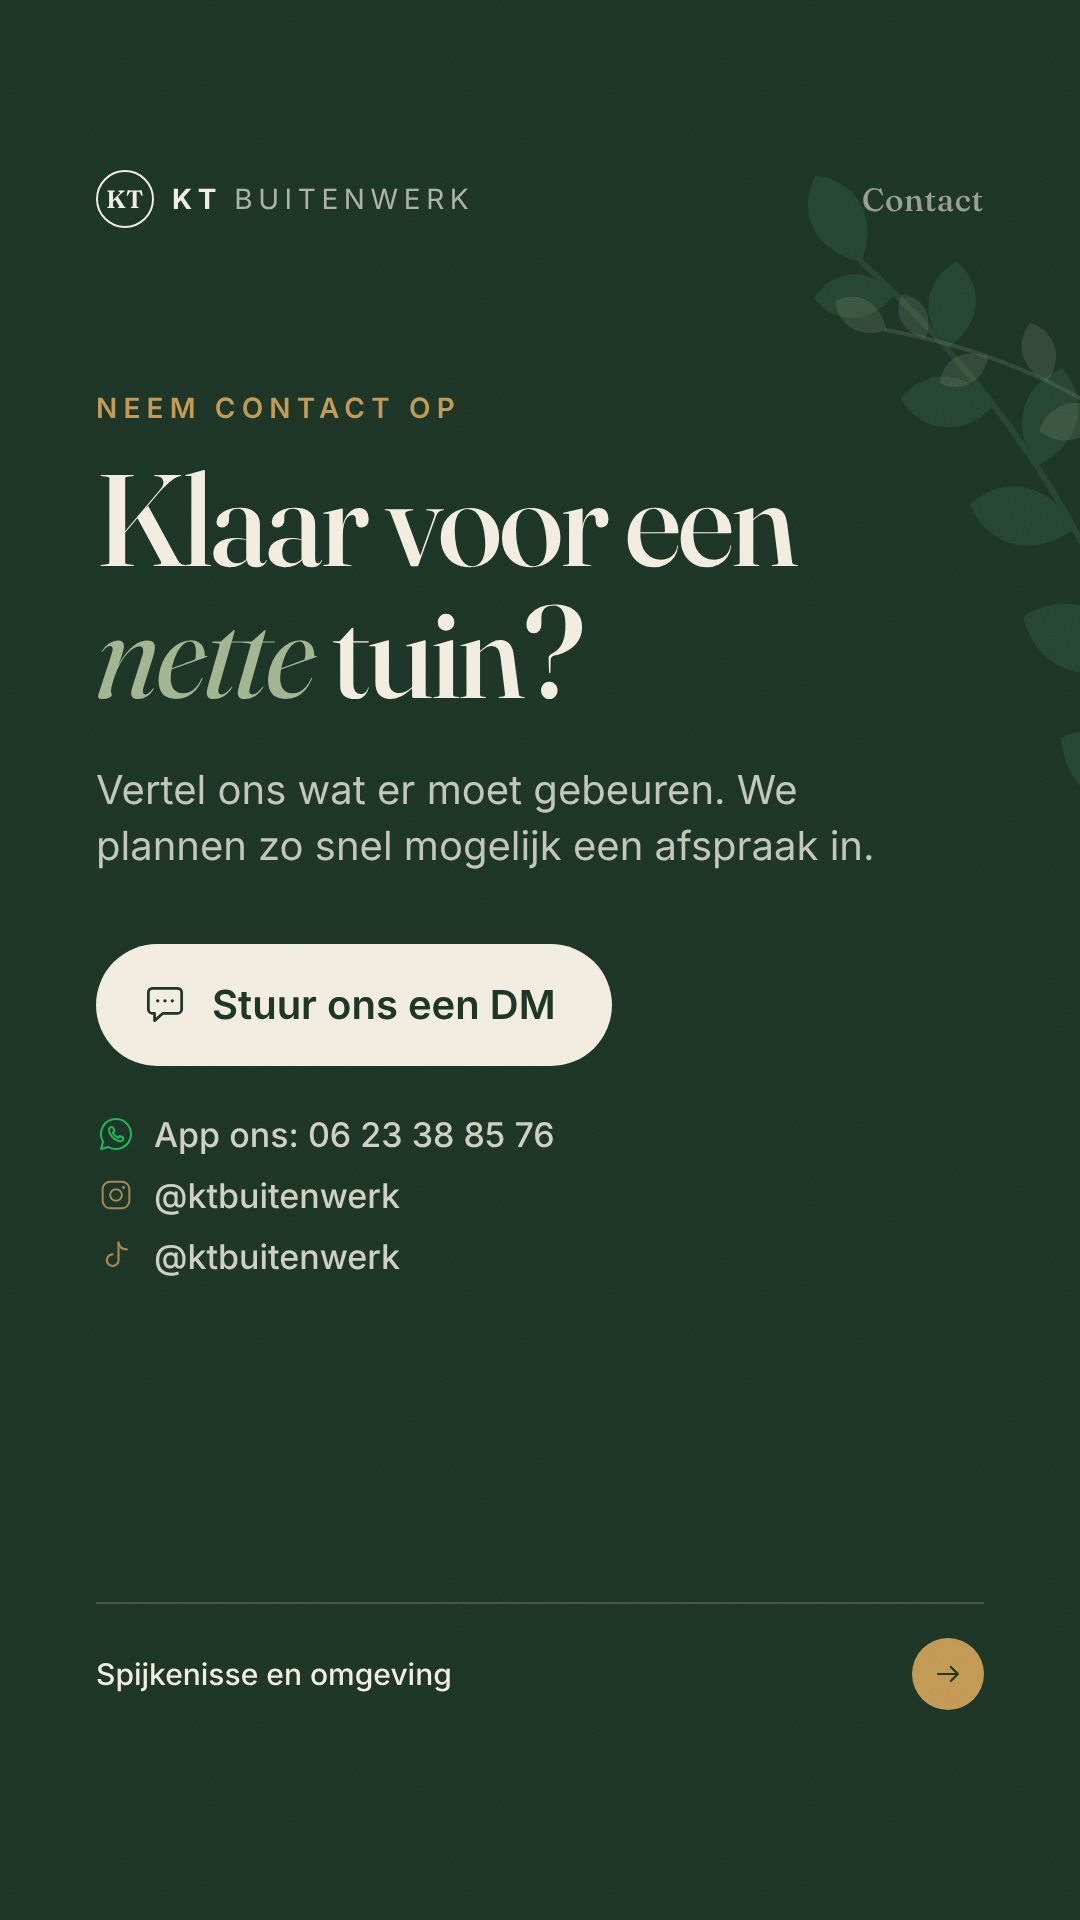
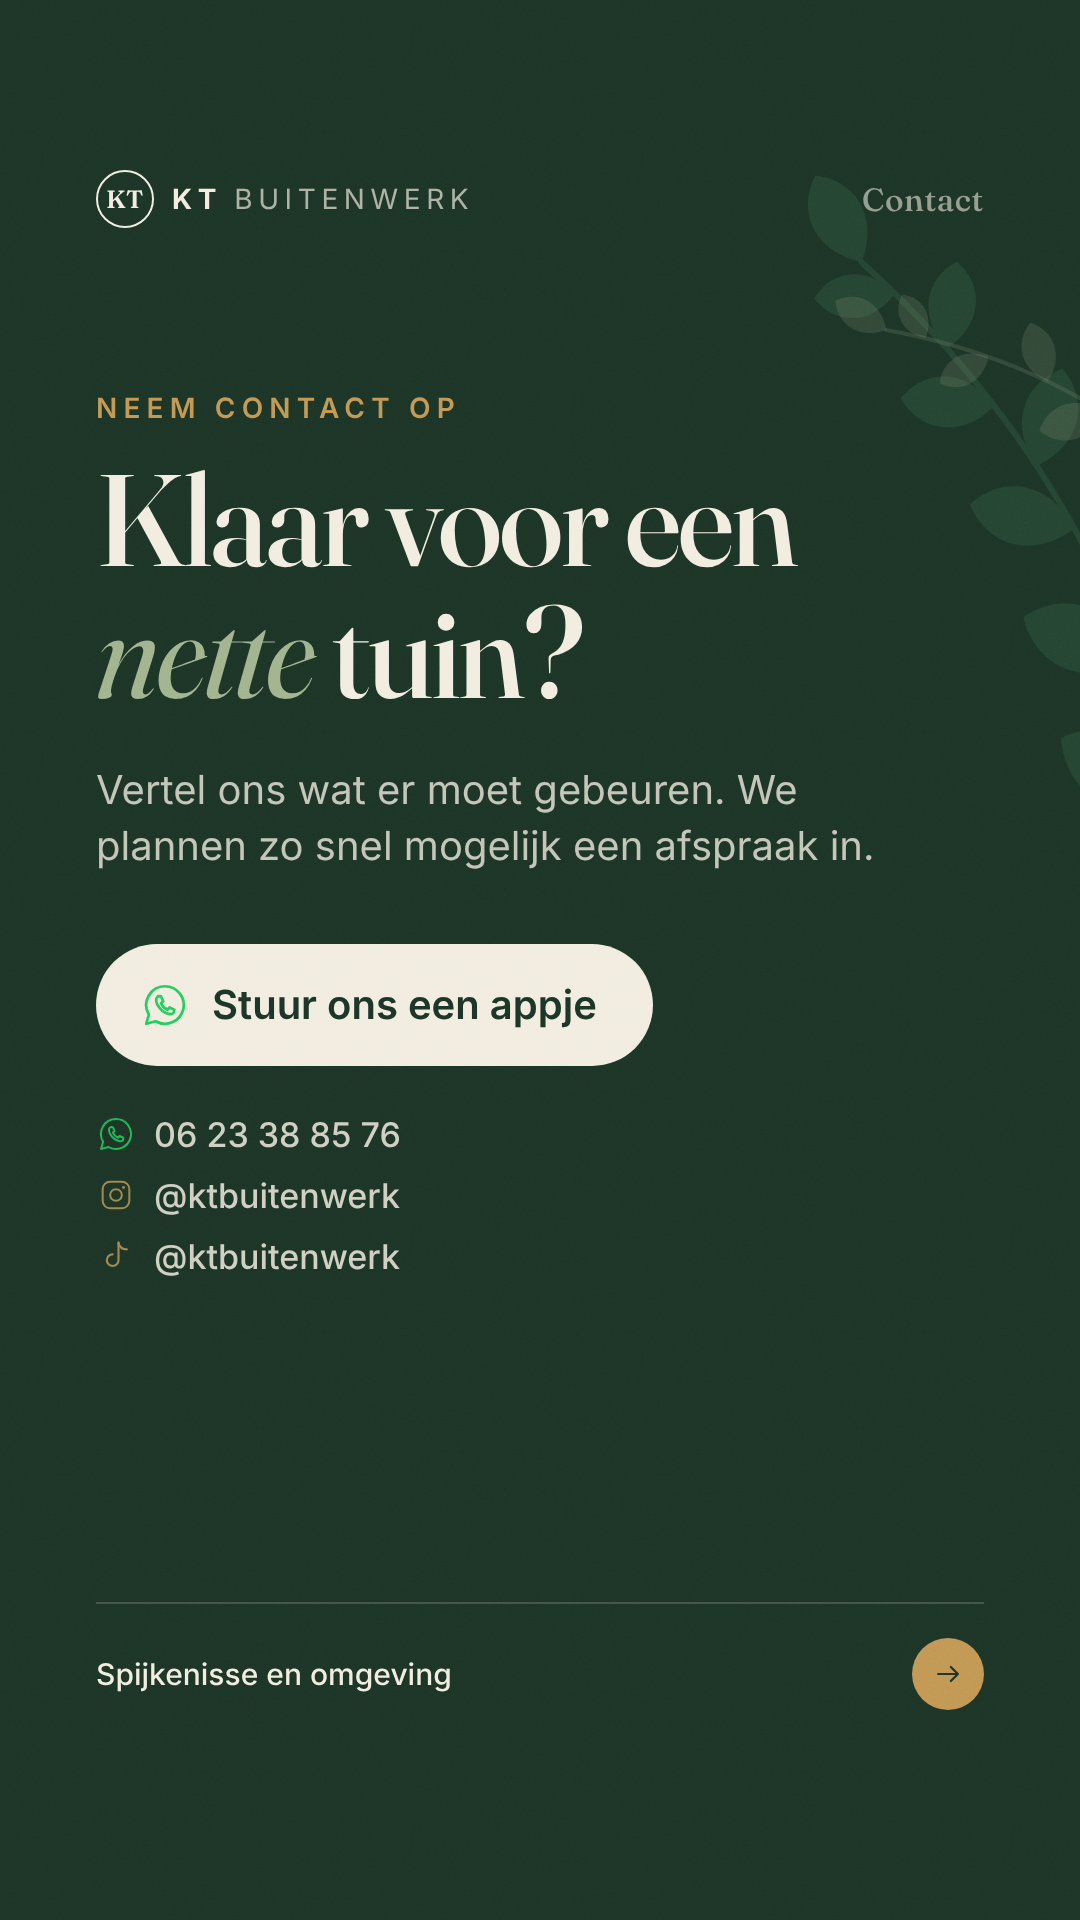
KT Buitenwerk: contactknop 'Stuur ons een appje' met WhatsApp-icoon
Claude-Session: https://claude.ai/code/session_018gBMzaTu2EwYEHfoqT4LxC

diff --git a/KLANTEN/kt-buitenwerk/05_social/instagram_highlight/highlight.html b/KLANTEN/kt-buitenwerk/05_social/instagram_highlight/highlight.html
@@ -199,7 +199,7 @@ const CONFIG = {
   contact: {
     titel: "Klaar voor een<br><em>nette</em> tuin?",
     sub: "Vertel ons wat er moet gebeuren. We plannen zo snel mogelijk een afspraak in.",
-    knop: "Stuur ons een DM",
+    knop: "Stuur ons een appje",
   },
 };
 /* ═══════════════════════════════════════════════════════════════════════════ */
@@ -332,8 +332,8 @@ slides.push({ naam: `${nr(n++)}_contact`, type: "story", html: `<section class="
     <div class="eyebrow">Neem contact op</div>
     <h1>${CONFIG.contact.titel}</h1>
     <p class="sub">${CONFIG.contact.sub}</p>
-    <div class="knop">${icoon("contact", 2.6)}${CONFIG.contact.knop}</div>
-    <div class="socials"><span>${icoon("whatsapp", 2.4, 'style="color:#25D366"')}App ons: ${CONFIG.telefoon}</span><span>${icoon("insta", 2.4)}${CONFIG.instagram}</span><span>${icoon("tiktok", 2.6)}${CONFIG.tiktok}</span></div>
+    <div class="knop">${icoon("whatsapp", 2.6, 'style="color:#25D366"')}${CONFIG.contact.knop}</div>
+    <div class="socials"><span>${icoon("whatsapp", 2.4, 'style="color:#25D366"')}${CONFIG.telefoon}</span><span>${icoon("insta", 2.4)}${CONFIG.instagram}</span><span>${icoon("tiktok", 2.6)}${CONFIG.tiktok}</span></div>
   </div>
   ${voet("Spijkenisse en omgeving")}
 </div></section>` });
